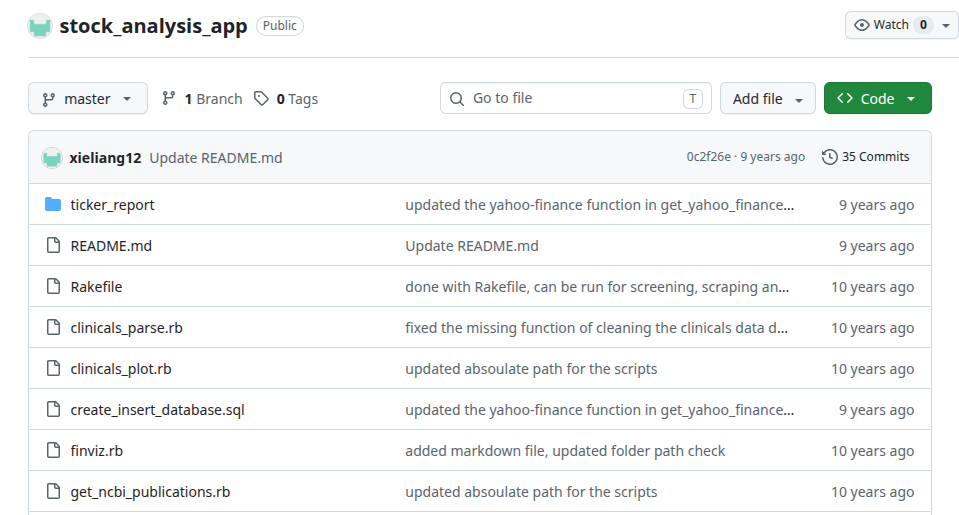
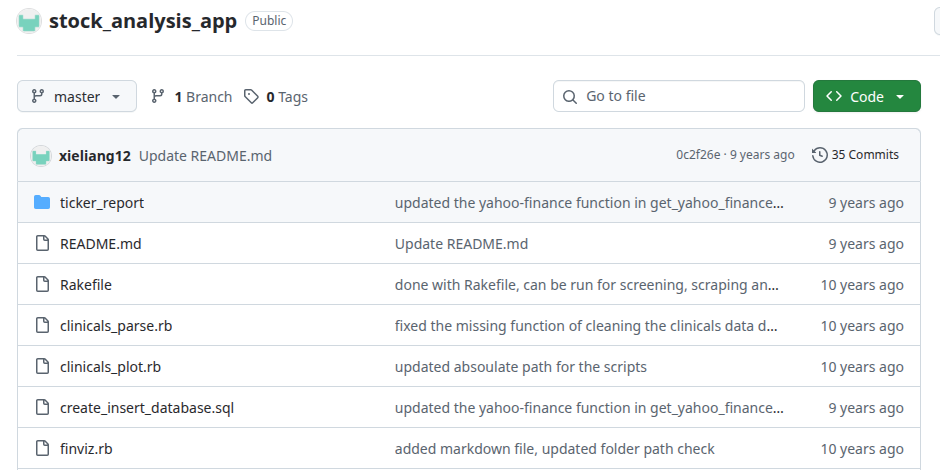
projects information update

diff --git a/index.html b/index.html
@@ -529,6 +529,11 @@
             </li>
 
             <li class="filter-item">
+              <button data-filter-btn>Ruby on Rails</button>
+            </li>
+
+
+            <li class="filter-item">
               <button data-filter-btn>Data Curation</button>
             </li>
 
@@ -561,6 +566,10 @@
               </li>
 
               <li class="select-item">
+                <button data-select-item>Ruby on Rails</button>
+              </li>
+
+              <li class="select-item">
                 <button data-select-item>Data curation</button>
               </li>
 
@@ -582,7 +591,7 @@
                     <ion-icon name="eye-outline"></ion-icon>
                   </div>
 
-                  <img src="./assets/images/project-1.png" alt="data analysis" loading="lazy">
+                  <img src="./assets/images/project-1.png" alt="pipeline" loading="lazy">
                 </figure>
 
                 <h3 class="project-title">Stock data analysis</h3>
@@ -592,6 +601,41 @@
               </a>
             </li>
 
+            <li class="project-item  active" data-filter-item data-category="ruby on rails">
+              <a href="https://github.com/xieliang12/stockfargo">
+
+                <figure class="project-img">
+                  <div class="project-item-icon-box">
+                    <ion-icon name="eye-outline"></ion-icon>
+                  </div>
+
+                  <img src="./assets/images/project-5.png" alt="rails" loading="lazy">
+                </figure>
+
+                <h3 class="project-title">Stockfargo</h3>
+
+                <p class="project-category">Ruby on Rails</p>
+
+              </a>
+            </li>
+            
+            <li class="project-item  active" data-filter-item data-category="data curation">
+              <a href="https://github.com/xieliang12/lncRNA_data_wrangling">
+
+                <figure class="project-img">
+                  <div class="project-item-icon-box">
+                    <ion-icon name="eye-outline"></ion-icon>
+                  </div>
+
+                  <img src="./assets/images/project-4.png" alt="lncRNA data" loading="lazy">
+                </figure>
+
+                <h3 class="project-title">lncRNA Data Wrangling</h3>
+
+                <p class="project-category">Data curation</p>
+
+              </a>
+            </li>
 
             <li class="project-item  active" data-filter-item data-category="data curation">
               <a href="https://github.com/xieliang12/Human-ChIP-data-curation">
